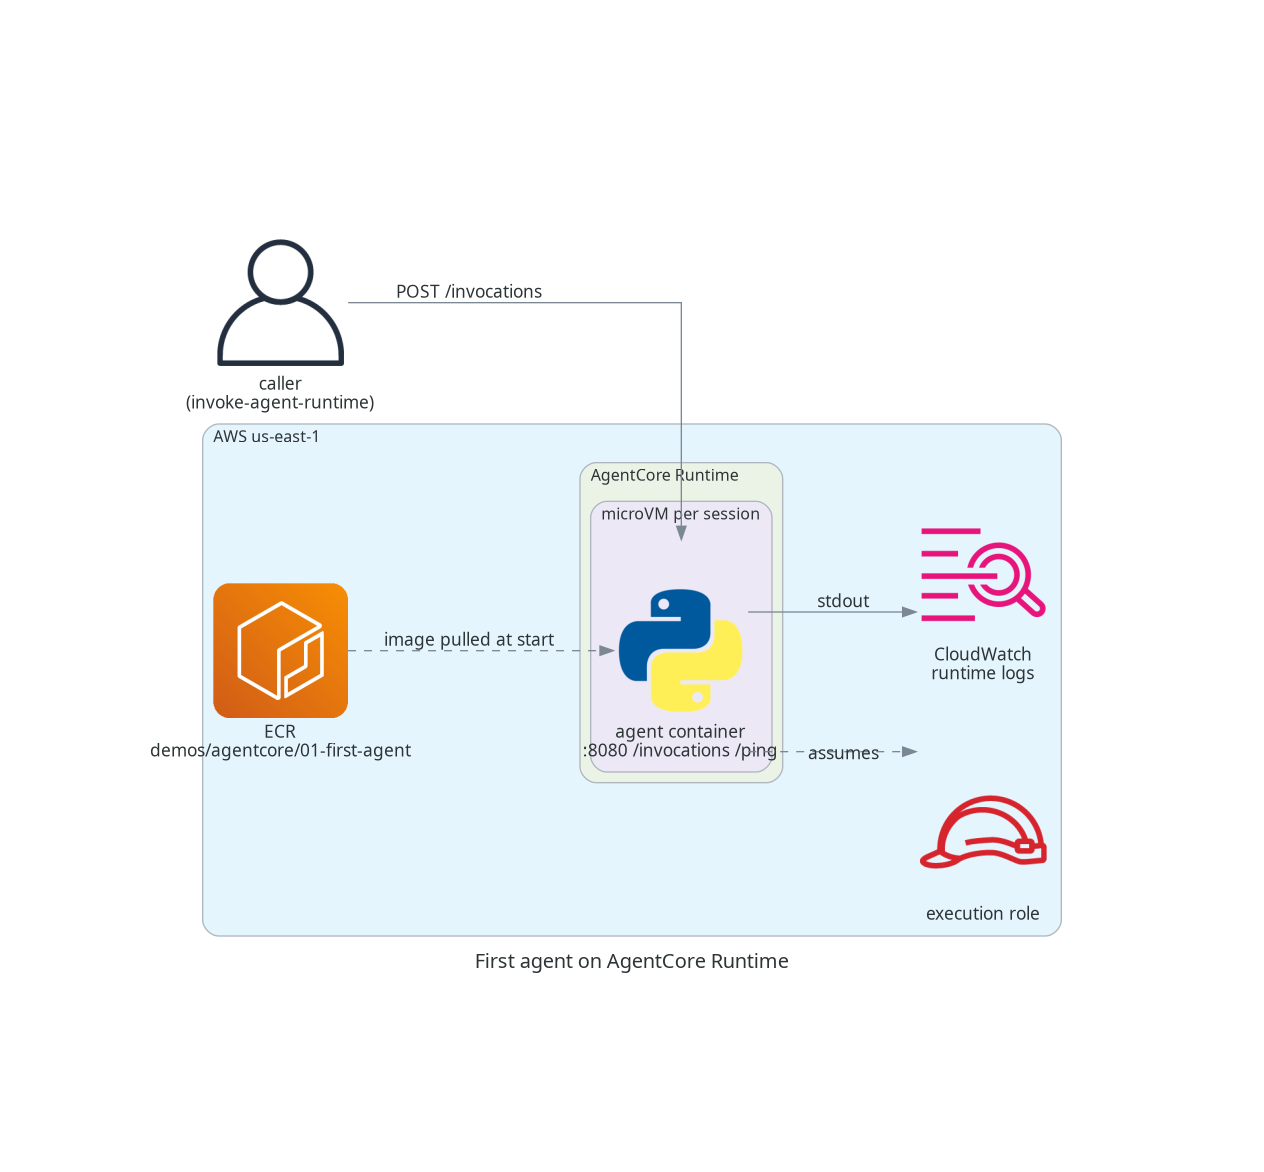
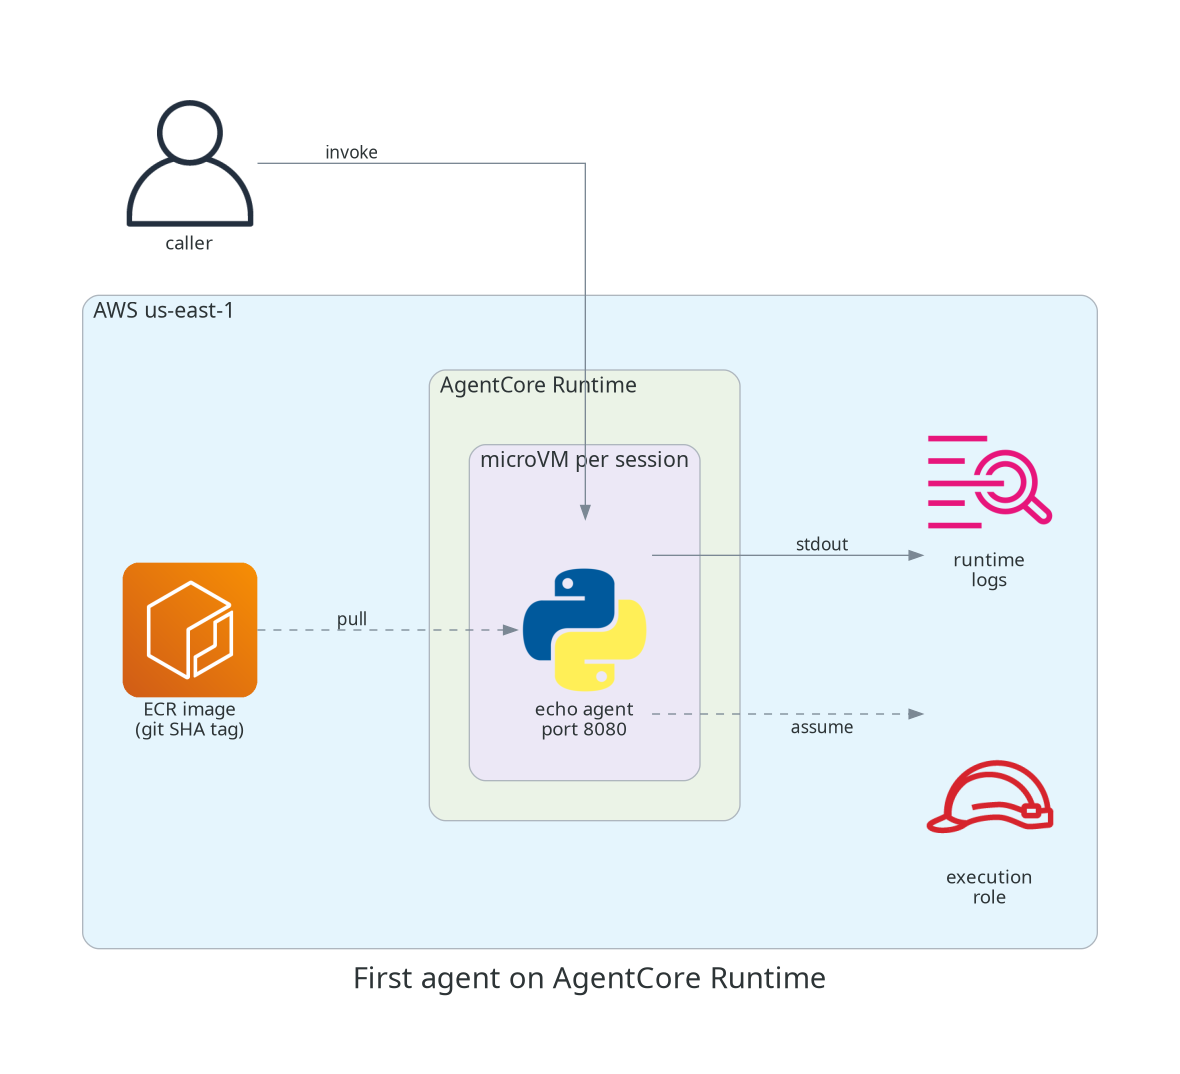
docs: clean up post 01 diagram layout (spacing, short labels, ortho edges)
Claude-Session: https://claude.ai/code/session_01Vc2R7B67Wbhmo86u8ZNNob

Changed region(s): [[0.061, 0.0922, 0.9458, 0.9218], [0.3051, 0.5223, 0.4271, 0.5531], [0.2746, 0.1229, 0.3356, 0.1536]]

diff --git a/agentcore/01-first-agent/diagram.py b/agentcore/01-first-agent/diagram.py
@@ -11,25 +11,50 @@ from diagrams.aws.security import IAMRole
 from diagrams.onprem.client import User
 from diagrams.programming.language import Python
 
+graph_attr = {
+    "pad": "0.75",
+    "nodesep": "1.0",
+    "ranksep": "1.4",
+    "splines": "ortho",
+    "fontsize": "22",
+}
+
+node_attr = {
+    "fontsize": "14",
+    "height": "1.6",
+}
+
+edge_attr = {
+    "fontsize": "13",
+}
+
+cluster_attr = {
+    "fontsize": "16",
+    "margin": "30",
+}
+
 with Diagram(
     "First agent on AgentCore Runtime",
     filename="architecture",
     outformat="png",
     show=False,
     direction="LR",
+    graph_attr=graph_attr,
+    node_attr=node_attr,
+    edge_attr=edge_attr,
 ):
-    caller = User("caller\n(invoke-agent-runtime)")
+    caller = User("caller")
 
-    with Cluster("AWS us-east-1"):
-        ecr = ECR("ECR\ndemos/agentcore/01-first-agent")
-        role = IAMRole("execution role")
-        logs = CloudwatchLogs("CloudWatch\nruntime logs")
+    with Cluster("AWS us-east-1", graph_attr=cluster_attr):
+        ecr = ECR("ECR image\n(git SHA tag)")
+        role = IAMRole("execution\nrole")
+        logs = CloudwatchLogs("runtime\nlogs")
 
-        with Cluster("AgentCore Runtime"):
-            with Cluster("microVM per session"):
-                agent = Python("agent container\n:8080 /invocations /ping")
+        with Cluster("AgentCore Runtime", graph_attr=cluster_attr):
+            with Cluster("microVM per session", graph_attr=cluster_attr):
+                agent = Python("echo agent\nport 8080")
 
-    caller >> Edge(label="POST /invocations") >> agent
-    ecr >> Edge(label="image pulled at start", style="dashed") >> agent
-    agent >> Edge(label="assumes", style="dashed") >> role
+    caller >> Edge(label="invoke") >> agent
+    ecr >> Edge(label="pull", style="dashed") >> agent
+    agent >> Edge(label="assume", style="dashed") >> role
     agent >> Edge(label="stdout") >> logs
